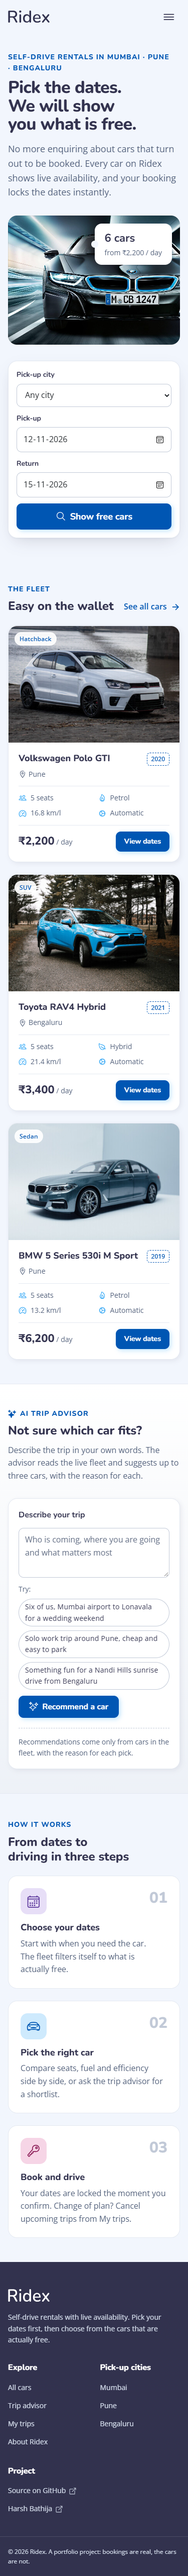
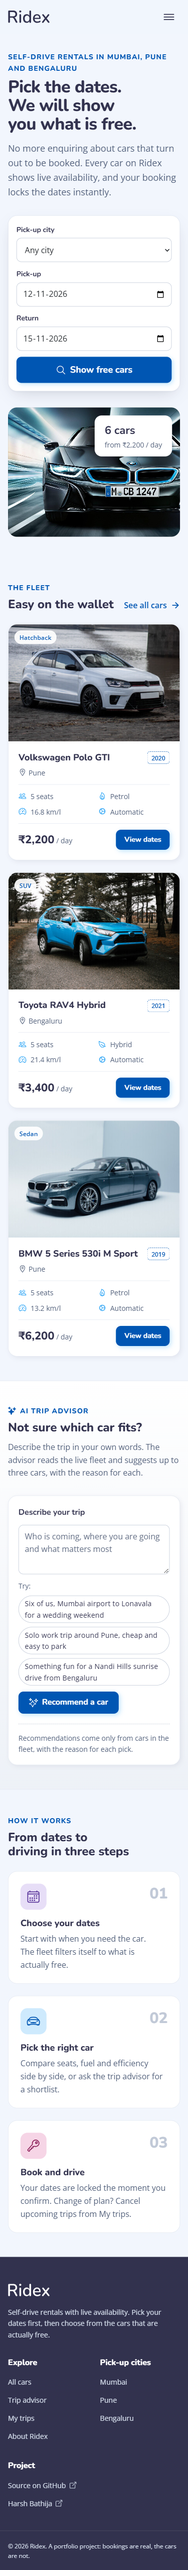
style(web): put the search above the hero photo on small screens, tidy hosting copy

diff --git a/frontend/src/pages/Home.jsx b/frontend/src/pages/Home.jsx
@@ -35,7 +35,7 @@ export default function Home() {
       <section className="hero">
         <div className="container hero__inner">
           <div className="hero__content">
-            <p className="eyebrow">Self-drive rentals in {CITIES.join(' · ')}</p>
+            <p className="eyebrow">Self-drive rentals in {new Intl.ListFormat('en-GB').format(CITIES)}</p>
             <h1 className="hero__title">Pick the dates. We will show you what is free.</h1>
             <p className="hero__text">
               No more enquiring about cars that turn out to be booked. Every car on Ridex shows live availability, and

diff --git a/frontend/src/pages/About.jsx b/frontend/src/pages/About.jsx
@@ -24,7 +24,7 @@ const STACK = [
   ['API', 'Node.js, Express 5, zod validation, JWT auth with bcrypt'],
   ['Data', 'PostgreSQL with schema-scoped migrations and a seeded demo fleet'],
   ['AI', 'Groq (gpt-oss-120b) called only from the server'],
-  ['Hosting', 'Vercel for the web app, Render for the API and database'],
+  ['Hosting', 'Vercel for the web app, Render for the API, one shared PostgreSQL database'],
 ];
 
 export default function About() {

diff --git a/frontend/src/styles/main.css b/frontend/src/styles/main.css
@@ -831,6 +831,7 @@ textarea::placeholder {
 }
 .hero__media {
   position: relative;
+  order: 1; /* small screens: search first, photo after it */
 }
 .hero__media img {
   width: 100%;
@@ -903,6 +904,9 @@ textarea::placeholder {
     grid-template-columns: 1fr 1.05fr;
     align-items: center;
     column-gap: var(--space-12);
+  }
+  .hero__media {
+    order: 0;
   }
   .hero__media img {
     aspect-ratio: 1391 / 1198;
